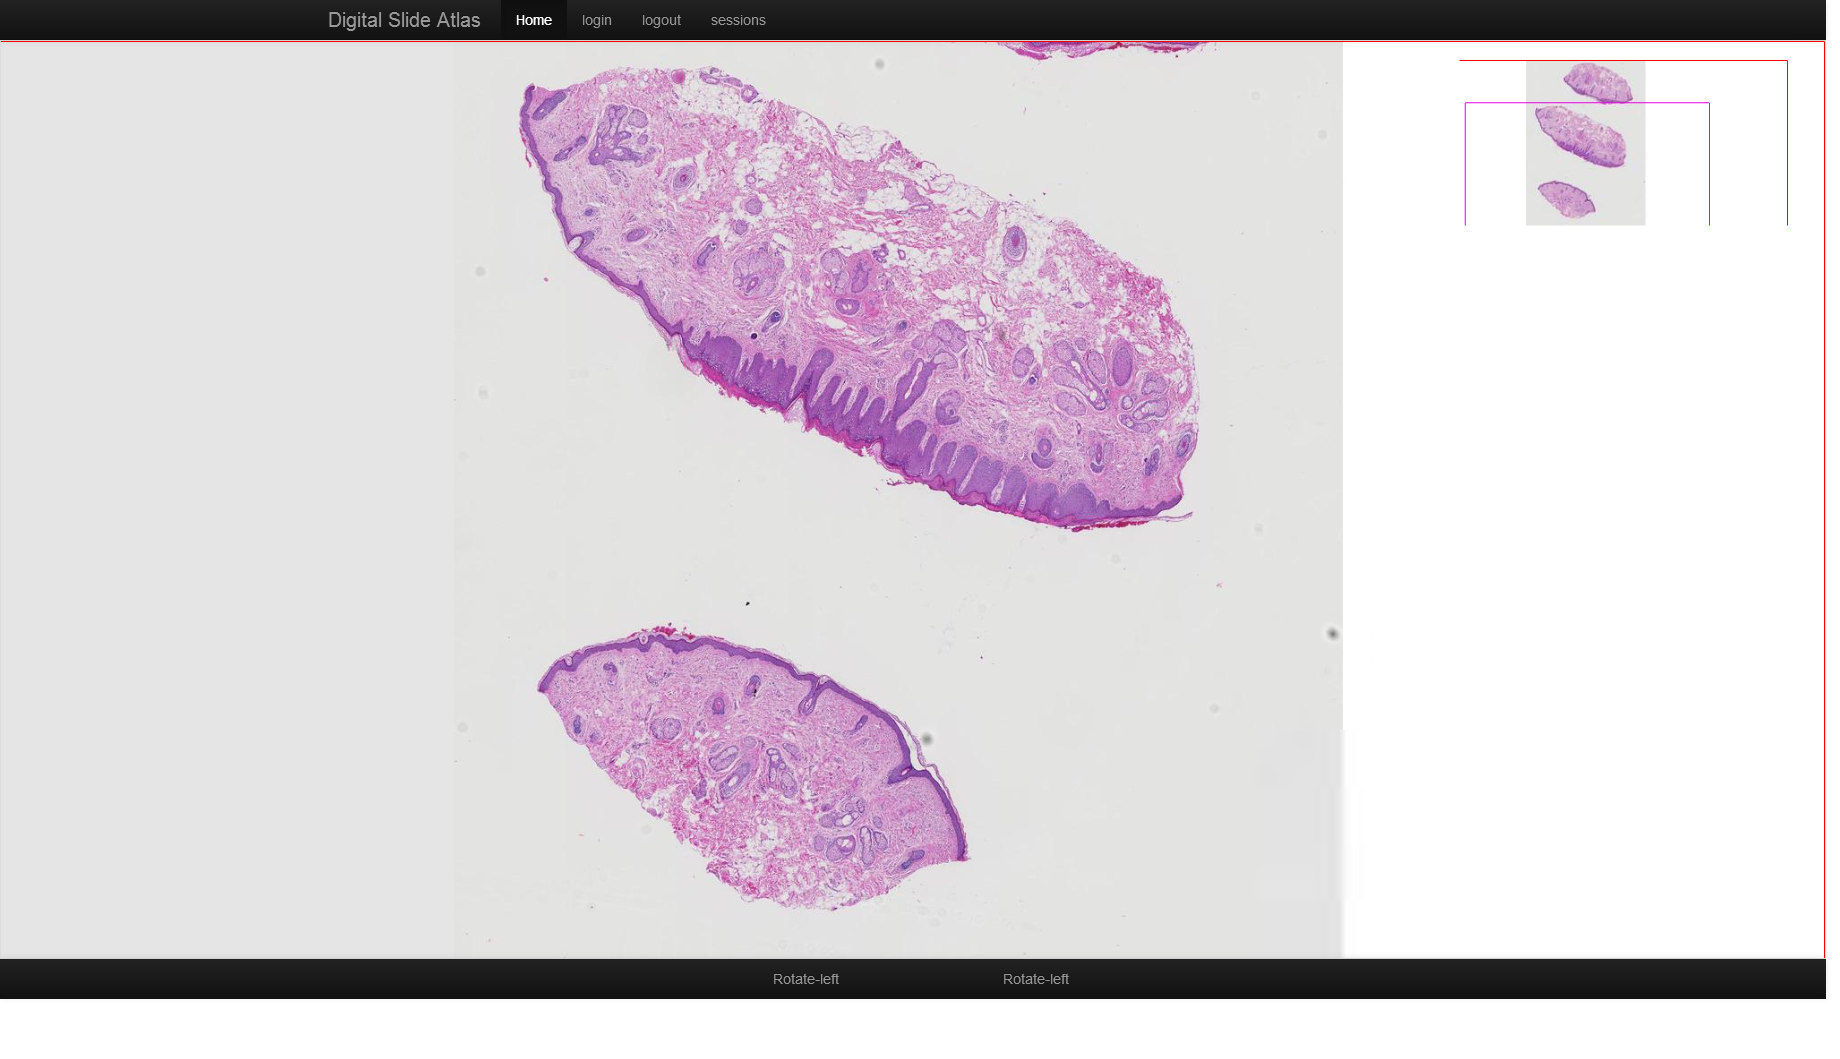
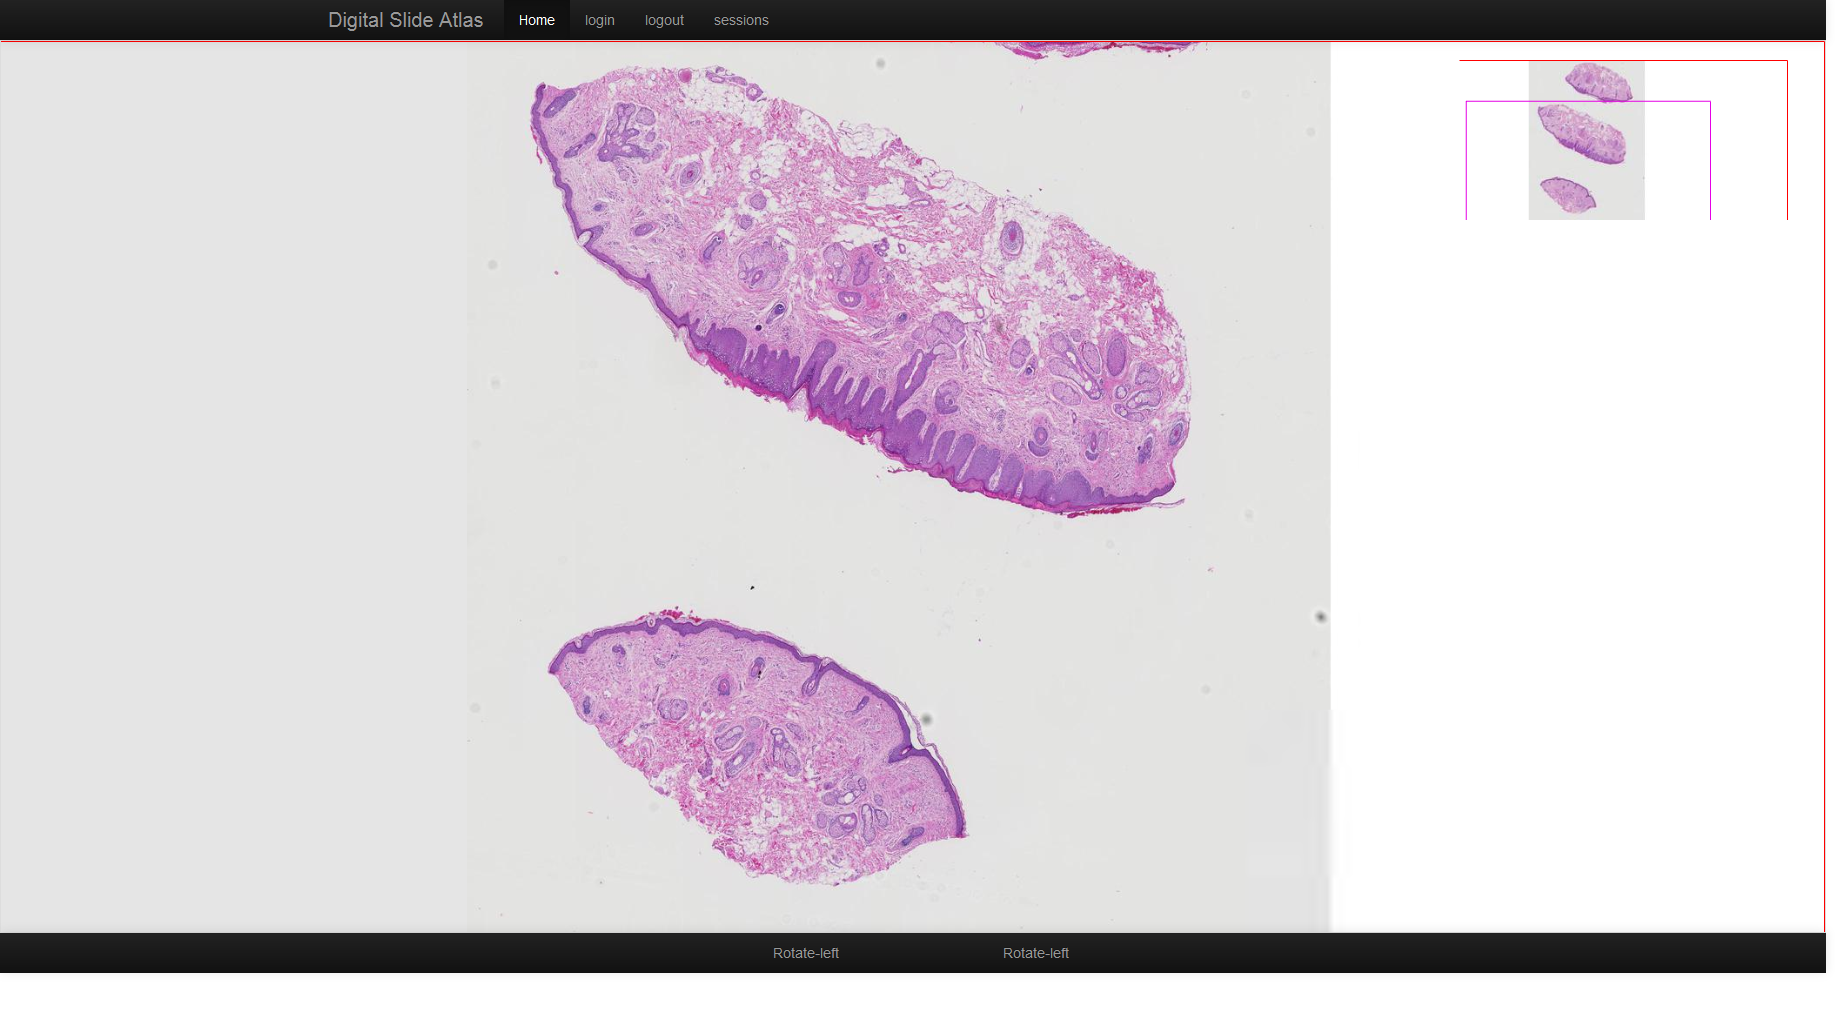
Reorganized tests into categories

diff --git a/testing/regression/test_on_demodb.py b/testing/regression/test_on_demodb.py
@@ -3,19 +3,21 @@ from selenium.webdriver.common.by import By
 from selenium.webdriver.support.ui import Select
 from selenium.common.exceptions import NoSuchElementException
 import unittest, time, re
-from imagecompare import imagecompare
+from comparetools import sameimage
+from time import sleep
 
 class DemoTests(unittest.TestCase):
     def setUp(self):
-        self.driver = webdriver.Chrome('c:\eclipse\chromedriver.exe')
+#        self.driver = webdriver.Chrome('c:\eclipse\chromedriver.exe')
+        self.driver = webdriver.Firefox()
         self.driver.maximize_window()
         self.driver.implicitly_wait(10)
-        self.base_url = "http://127.0.0.1:8080/"
+        self.base_url = "http://mongol:8080/"
         self.verificationErrors = []
 
     def test_demo_tests(self):
         driver = self.driver
-        driver.get(self.base_url + "/webgl-viewer?db=507619bb0a3ee10434ae0827&img=4ecb20134834a302ac000001")
+        driver.get("http://mongol:8080/home")
         driver.find_element_by_link_text("Home").click()
         driver.find_element_by_link_text("logout").click()
         driver.find_element_by_link_text("login").click()
@@ -27,11 +29,12 @@ class DemoTests(unittest.TestCase):
         driver.find_element_by_link_text("sessions").click()
         driver.find_element_by_link_text("Skin").click()
         driver.find_element_by_link_text("4815 - 2010-10-06 16.32.21.ndpi").click()
-
+        sleep(3)
         driver.save_screenshot('demo_glview.png')
+
         print "<DartMeasurementFile name=\"glview_demo\" type=\"image/png\"> demo_glview.png </DartMeasurementFile>"
 
-        self.failUnless(imagecompare("demo_glview.png", "imgs/demo_glview.png") < 10.0)
+        self.failUnless(sameimage("demo_glview.png", "imgs/demo_glview.png"))
 
     def is_element_present(self, how, what):
         try: self.driver.find_element(by=how, value=what)

diff --git a/testing/comparetools.py b/testing/comparetools.py
@@ -1,0 +1,51 @@
+import Image
+import ImageChops
+import ImageStat
+import sys
+import hashlib
+
+def sameimage(path_im1, path_im2, threshold=10):
+    """
+    both inputs should be strings paths to the images
+    returns a numerical value comparing the images
+    """
+
+    # Open the images
+    im1 = Image.open(path_im1)
+    im2 = Image.open(path_im2)
+
+    # Find the difference image
+    diff = ImageChops.difference(im2, im1)
+
+    # Compute the magnitude of the difference
+    stat = ImageStat.Stat(diff)
+    rms = sum(stat.rms)
+    print "ImageDiff = ", rms
+    # Compare the difference with the threshold
+    if rms < threshold:
+        return True
+    else:
+        return False
+
+def md5_file(path, block_size=2 ** 20):
+    md5 = hashlib.md5()
+    f = open(path, "rb")
+
+    # Update the md5 in blocks read from file
+    while True:
+        data = f.read(block_size)
+        if not data:
+            break
+        md5.update(data)
+    return md5.hexdigest()
+
+def samefile(path1, path2):
+    """
+    Checks the file by size first and if same then by md5
+    """
+    md5_1 = md5_file(path1)
+    md5_2 = md5_file(path2)
+    print "md5 =", md5_1
+
+    # Return whether the md5's match 
+    return md5_1 == md5_2

diff --git a/testing/list_tests.py b/testing/list_tests.py
@@ -1,15 +1,17 @@
 import unittest
 
-loader = unittest.TestLoader()
-suite = loader.discover("unit")
+def list_tests_from(path):
+    loader = unittest.TestLoader()
+    suite = loader.discover(path)
+    for atest in suite:
+        tests = atest._tests
+        if len(tests):
+            for atest in tests:
+                for btest in atest._tests:
+                    btestname = btest.__str__().split()
+                    print path + "." + btestname[1][1:-1] + "." + btestname[0]
 
-loader = unittest.TestLoader()
-suite.addTests(loader.discover("regression"))
+list_tests_from("unit")
+list_tests_from("regression")
 
-for atest in suite:
-    tests = atest._tests
-    if len(tests):
-        for atest in tests:
-            for btest in atest._tests:
-                btestname = btest.__str__().split()
-                print btestname[1][1:-1]
+

diff --git a/testing/unit/test_comparetools.py b/testing/unit/test_comparetools.py
@@ -1,0 +1,17 @@
+from comparetools import sameimage, samefile
+
+import unittest, time, re
+
+class ImageComparisonTests(unittest.TestCase):
+    def testSamelargeImage(self):
+        self.failUnless(sameimage("imgs/glview.png", "imgs/glview.png"))
+
+    def testSameFiles(self):
+        self.failUnless(samefile("imgs/glview.png", "imgs/glview.png"))
+
+    def testSameFiles(self):
+        self.failIf(samefile("imgs/glview.png", "imgs/demo_glview.png"))
+
+
+if __name__ == "__main__":
+    unittest.main()

diff --git a/docs/testing.rst b/docs/testing.rst
@@ -59,7 +59,6 @@ It is not included in the source repository and needs to be included in the path
 And example test -  test_on_demodb tests typical webgl image view and compares the obtained screenshot with the expected.
 This test will currently  fail if the screen resolution changes from monitor to monitor. In future the test will accomodate image resize.
 
-
 Internal testing
 ----------------
 
@@ -69,9 +68,4 @@ In future, needs to be done for each request
 Uploading screenshots to the cdash
 
 `Link Upload Images to Cdash <http://public.kitware.com/pipermail/cdash/2011-June/000995.html>`_
-
-Adding new tets
----------------
-
-
 
